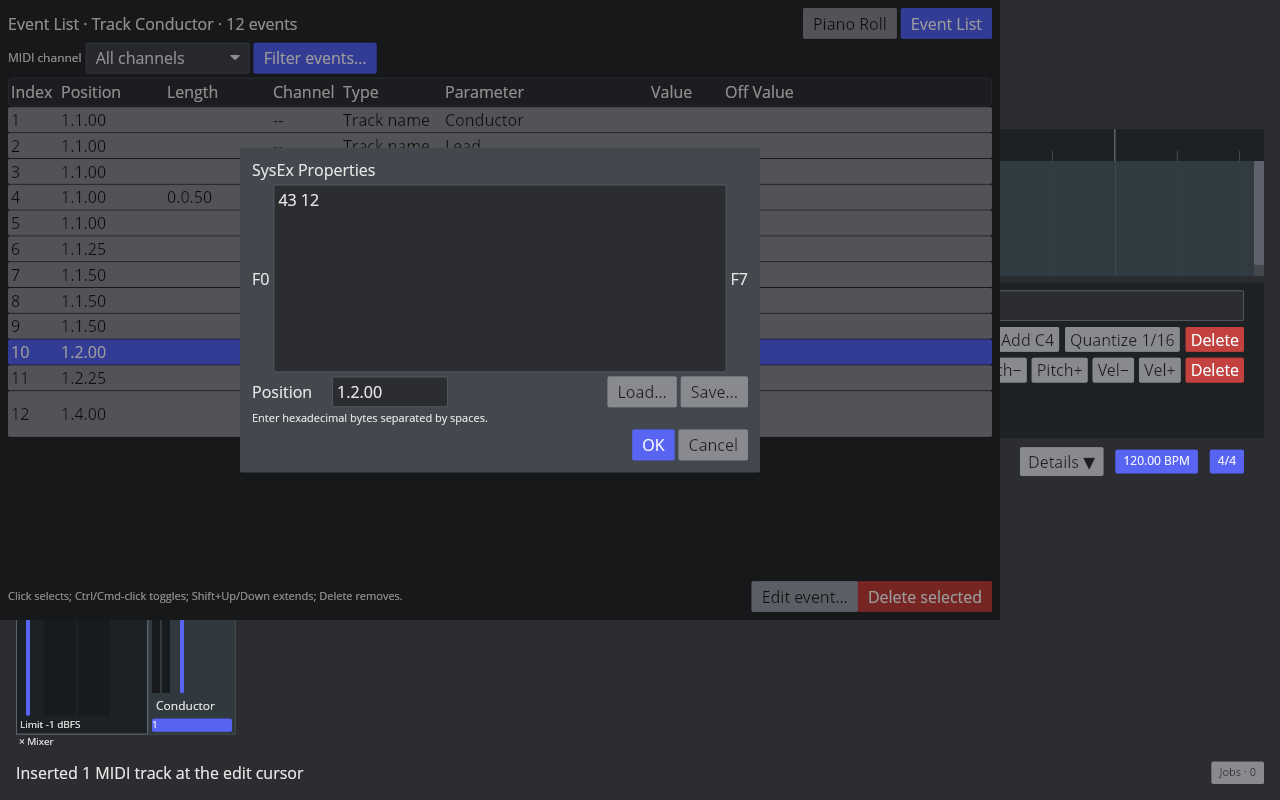
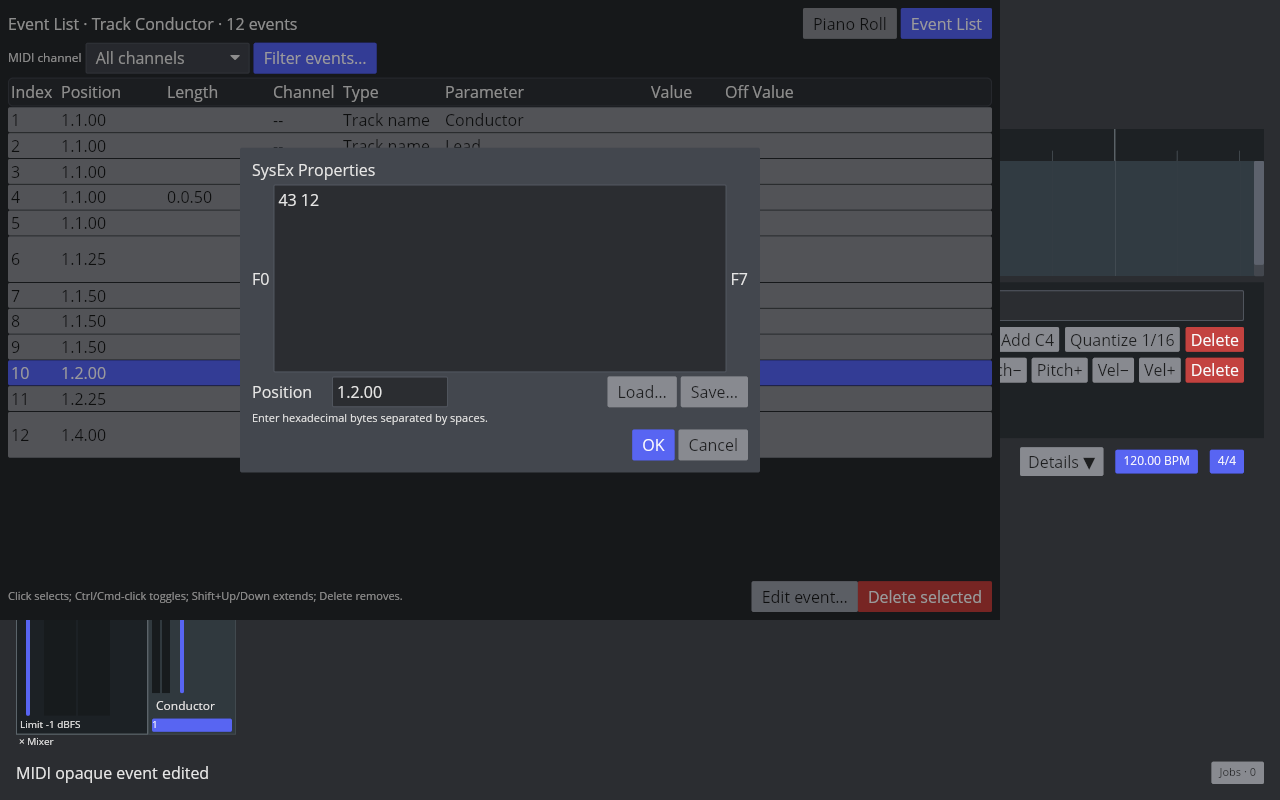
Fix MIDI opaque property dialog interactions

diff --git a/crates/aaadaw/src/app/mod.rs b/crates/aaadaw/src/app/mod.rs
@@ -4248,6 +4248,14 @@ impl App {
                     | Message::SetMidiEventPropertiesOffValue(_)
                     | Message::SetMidiEventPropertiesBankMsb(_)
                     | Message::SetMidiEventPropertiesBankLsb(_)
+                    | Message::SetMidiOpaqueEventPropertiesType(_)
+                    | Message::SetMidiOpaqueEventPropertiesPayload(_)
+                    | Message::SetMidiOpaqueEventPropertiesMultiline(_)
+                    | Message::EditMidiOpaqueEventPropertiesText(..)
+                    | Message::PickMidiOpaqueSysExFile(_)
+                    | Message::MidiOpaqueSysExFileFinished(..)
+                    | Message::PickMidiOpaqueMetaTextFile
+                    | Message::MidiOpaqueMetaTextFileFinished(..)
                     | Message::ApplyMidiEventProperties
                     | Message::AcceptMidiEventProperties
                     | Message::CancelMidiEventProperties
@@ -6189,6 +6197,7 @@ impl App {
                             event_type != MidiOpaqueEventPropertiesType::SysEx
                         })
                     {
+                        dialog.opaque_multiline = payload.contains('\n') || payload.contains('\r');
                         dialog.opaque_payload = payload;
                         dialog.opaque_editor =
                             iced::widget::text_editor::Content::with_text(&dialog.opaque_payload);

diff --git a/crates/aaadaw/src/app/view/midi_editor.rs b/crates/aaadaw/src/app/view/midi_editor.rs
@@ -1064,7 +1064,7 @@ fn midi_opaque_meta_text(data: &[u8]) -> String {
     let text = String::from_utf8_lossy(data).trim_matches('\0').to_owned();
     if text
         .chars()
-        .all(|character| !character.is_control() || character == '\t')
+        .all(|character| !character.is_control() || matches!(character, '\t' | '\n' | '\r'))
     {
         text
     } else {
@@ -5143,6 +5143,18 @@ fn piano_key_rect(pitch: u8, row_y: f32, row_height: f32) -> Rectangle {
 mod tests {
     use super::*;
     use crate::app::MidiTransposeScope;
+
+    #[test]
+    fn opaque_meta_text_keeps_readable_newlines() {
+        assert_eq!(
+            midi_opaque_meta_text(b"Imported line one\nImported line two"),
+            "Imported line one\nImported line two"
+        );
+        assert_eq!(
+            midi_opaque_meta_text(b"bad\x01text"),
+            "62 61 64 01 74 65 78 74"
+        );
+    }
 
     fn piano_roll_for_test<'a>(
         project: &'a Project,

diff --git a/crates/aaadaw/src/app/tests.rs b/crates/aaadaw/src/app/tests.rs
@@ -13038,6 +13038,18 @@ fn midi_opaque_meta_properties_edit_text_type_and_position_with_undo_redo() {
     assert!(commands::is_enabled(&app, CommandId::MidiEventProperties));
     let _ = commands::dispatch(&mut app, CommandId::MidiEventProperties);
     assert!(app.midi_event_properties_dialog.is_some());
+    let _ = app.update(Message::MidiOpaqueMetaTextFileFinished(Ok(Some(
+        "Loaded line one\nLoaded line two".into(),
+    ))));
+    let loaded_dialog = app
+        .midi_event_properties_dialog
+        .as_ref()
+        .expect("Meta properties dialog should remain open after text load");
+    assert!(loaded_dialog.opaque_multiline);
+    assert_eq!(
+        loaded_dialog.opaque_payload,
+        "Loaded line one\nLoaded line two"
+    );
     let _ = app.update(Message::SetMidiOpaqueEventPropertiesType(
         super::MidiOpaqueEventPropertiesType::Marker,
     ));

diff --git a/docs/verification/reaper-parity/midi-event-list.md b/docs/verification/reaper-parity/midi-event-list.md
@@ -6,7 +6,7 @@ AAADAW now exposes Piano Roll and Event List modes in the MIDI Editor and Action
 
 Event List appends `(end) All Notes Off` at the item length as a synthetic cursor row, not a stored or exported MIDI event. An empty item therefore shows one row at its end; the row can be selected and navigated to, and Delete/Backspace leaves the project unchanged. Delete on a modeled row removes that event. Real-window captures verify the empty row, the populated row, no-op deletion of the terminal row, and deletion of a real note. Note rows display persistent MIDI Note Off velocity in `Off Value`; the native and AAADAW fixture uses Note On 91 / Note Off 37 and verifies the displayed 37 in Event List and Event Properties. Apply changes it to 42, and Undo/Redo restore 37/42. See the [note-off velocity fixture manifest](fixtures/midi-note-off-velocity-ui.tsv). REAPER 7.82 displays a Program Change's raw zero-based program number in the Value column. Poly Aftertouch uses the native pitch name (for example `C4`) in Parameter; Channel Pressure has no parameter. Native REAPER and real-window AAADAW captures and readbacks for both pressure event types are in the [aftertouch fixture manifest](fixtures/midi-aftertouch-ui.tsv). The native type filter offers `<all events>`, Note, Poly Aftertouch, Control Change (CC), Program Change (PC), Channel Pressure, Pitch, and the combined `Sysex/Meta` category. Native and AAADAW screenshots confirm that Sysex/Meta includes track-name, text, marker, and SysEx rows; the inverse hides those opaque rows and shows channel events together with `(end) All Notes Off`, which is a non-Sysex/Meta event. Direct Sysex/Meta filtering hides the synthetic terminal row. AAADAW applies the same matching to visible rows and keyboard-navigation candidates. See the [type-filter fixture manifest](fixtures/midi-event-filter-ui.tsv). Ctrl/Cmd-click toggles a row, and deleting selected events creates one undoable transaction. The in-memory mode does not alter MIDI project data.
 
-For one or more selected rows of the same modeled type, `Edit event…` and action 40004 (`Ctrl+F2`) open Event Properties; a single selected editable text Meta or SysEx row uses the same entry point. Notes expose absolute Position, Length, Channel, Pitch, Note On Velocity, and Note Off velocity; CC events expose Position, Channel, Controller, and Value; Pitch Bend exposes Position, Channel, and raw 14-bit Value; Program Change exposes Position, MIDI channel, its zero-based Program number, and Bank MSB/LSB backed by CC0/CC32. REAPER opens a dedicated `Bank/Program Select` dialog for a Program Change. Text Meta exposes Text, Type, Multi-line text, and Position; SysEx exposes fixed F0/F7 framing, a hex payload editor, Position, and Load/Save. The implementation maps the nine editable REAPER Meta types and commits opaque edits as one undoable event update while preserving event order, but current live pointer probes did not visibly apply Meta Type/Multi-line/Load controls and the edit flow remains unverified. Apply leaves modeled-event dialogs open after one undoable update; OK commits and closes them; Cancel and Escape discard uncommitted fields. The separate [Event Properties verification](midi-event-properties.md) records the measured native dialogs and AAADAW windows.
+For one or more selected rows of the same modeled type, `Edit event…` and action 40004 (`Ctrl+F2`) open Event Properties; a single selected editable text Meta or SysEx row uses the same entry point. Notes expose absolute Position, Length, Channel, Pitch, Note On Velocity, and Note Off velocity; CC events expose Position, Channel, Controller, and Value; Pitch Bend exposes Position, Channel, and raw 14-bit Value; Program Change exposes Position, MIDI channel, its zero-based Program number, and Bank MSB/LSB backed by CC0/CC32. REAPER opens a dedicated `Bank/Program Select` dialog for a Program Change. Text Meta exposes Text, Type, Multi-line text, and Position; SysEx exposes fixed F0/F7 framing, a hex payload editor, Position, and Load/Save. The implementation maps the nine editable REAPER Meta types and commits opaque edits as one undoable event update while preserving event order. Current-build Linux Xvfb evidence verifies loading two-line UTF-8 Meta text, switching to Marker, committing it and displaying readable lines in Event List; it also verifies a SysEx payload edit and Undo. Apply leaves modeled-event dialogs open after one undoable update; OK commits and closes them; Cancel and Escape discard uncommitted fields. The separate [Event Properties verification](midi-event-properties.md) records the measured native dialogs and AAADAW windows.
 
 Arrow Up/Down now follows the measured row-selection behavior: the first unmodified arrow collapses a multi-selection at its active row, and the next arrow moves to the adjacent visible event. Ctrl+Arrow Up/Down moves the independent Event List cursor while retaining the selected rows. Shift+Arrow Up/Down extends or contracts the selection from its anchor across every visible event row, including mixed Note, CC, and Pitch Bend rows. Home selects the first visible event and moves the project edit cursor to that event's project position; End moves the project edit cursor to the MIDI item's end and leaves the selected event intact. The isolated Linux REAPER 7.82 probe uses an item from 4–8 seconds, a first note at 4.25 seconds, and another item ending at 12 seconds: Home selects that note and moves the cursor 6→4.25 seconds, then End moves it 4.25→8 seconds. The [native trace and screenshots](fixtures/midi-event-list-ui.tsv) record the event-selection bits and cursor readback. AAADAW's current desktop build selects the first visible row on Home and reaches the item end on End; its real-window screenshots show the selected Note and the arrangement cursor readouts at 0.25 and 2 seconds. The [native navigation trace](fixtures/midi-event-list-navigation-native.tsv) records Arrow-key selection bits after each step. In the native Event List, double-clicking a value opens the complete Event Properties dialog rather than editing that cell inline, so direct per-cell editing is not a parity gap.
 

diff --git a/docs/verification/reaper-parity/midi-event-properties.md b/docs/verification/reaper-parity/midi-event-properties.md
@@ -22,8 +22,8 @@ AAADAW accepts `+`, `-`, `*`, and `/` in numeric event fields, applying the oper
 
 The aftertouch probe adds both REAPER event types to the same dialog flow. Poly Aftertouch exposes Position, Channel, Note, and Value; Channel Pressure exposes Position, Channel, and Value. The native properties windows and Event List readback are compared with real AAADAW windows in the [aftertouch fixture manifest](fixtures/midi-aftertouch-ui.tsv). The AAADAW capture applies Poly Aftertouch value 37→42, closes the dialog, then verifies the Event List Undo/Redo values 37/42. The project model still does not store CC shape or Bezier tension, so both controls are clearly marked as not modeled.
 
-Opaque event properties are now available for one selected SysEx or editable text Meta row from `Edit event…` and action 40004 / Ctrl+F2. The native 7.82 SysEx window has fixed F0/F7 framing, a multiline hexadecimal payload area, Position, Save/Load, OK, and Cancel. AAADAW exposes the payload as a multiline hex editor, preserves framing when committing, and provides `.syx` / `.sysex` Load and Save actions. The native text Meta window has Text, Type, Multi-line text, Position, Load, OK, and Cancel; its Type list contains Text event, Copyright notice, Track name, Instrument name, Lyrics, Marker, Cue, Program name, and Device name. The implementation maps those nine Meta kinds and commits text, type, multiline content, and Position in one undoable `SetMidiOpaqueEvents` action while preserving event order; regression tests cover this path but remain unexecuted because the test binary could not be built after the workspace filesystem filled. The current AAADAW screenshots confirm the dialog layouts. In a live Xvfb probe, clicking Type, Multi-line, and Load did not visibly change the dialog, so direct UI editing and Meta file loading remain unverified. Invalid hex and out-of-range BBT values are covered in the test code. The paired native and AAADAW captures, probe MIDI file, binary identity, and regression-test names are in the [Event Properties fixture manifest](fixtures/midi-event-properties-ui.tsv).
+Opaque event properties are available for one selected SysEx or editable text Meta row from `Edit event…` and action 40004 / Ctrl+F2. The native 7.82 SysEx window has fixed F0/F7 framing, a multiline hexadecimal payload area, Position, Save/Load, OK, and Cancel. AAADAW exposes the payload as a multiline hex editor, preserves framing when committing, and provides `.syx` / `.sysex` Load and Save actions. The native text Meta window has Text, Type, Multi-line text, Position, Load, OK, and Cancel; its Type list contains Text event, Copyright notice, Track name, Instrument name, Lyrics, Marker, Cue, Program name, and Device name. AAADAW maps those nine Meta kinds and commits text, type, multiline content, and Position in one undoable `SetMidiOpaqueEvents` action while preserving event order. A Linux Xvfb run with the current build loaded a two-line UTF-8 file through the desktop portal, automatically enabled Multi-line, changed Type to Marker, and committed both lines to Event List. A separate SysEx edit changed payload `43 12` to `43 12 34`, committed `F0 43 12 34 F7`, and Undo restored `F0 43 12 F7`. Focused App regression tests pass 6/6 across Meta editing/load state, SysEx validation/Undo, F0/F7 framing, and multiline display; strict all-target Clippy passes. The paired native and current-build AAADAW captures, probe MIDI file, binary identity, and regression-test names are in the [Event Properties fixture manifest](fixtures/midi-event-properties-ui.tsv).
 
[1 lines of base64/hex data omitted]
 
-This does not complete native Event Properties parity. Meta type/text/multiline/load interactions need repair and live verification; mixed-type selections, patch-file selection, SysEx file-dialog read/write behavior, invalid UTF-8 Meta editing, F7 continuation packets, and exact type/text control focus remain open. CC shape and Bezier tension remain absent from the project model. Event Properties BBT editing uses the project PPQ and meter at tick zero; meter-map changes, source offsets, and loop-source occurrences still need native probes. CC named values are available through the editable combo, though its search/focus details still need a closer native comparison. `MIDI-EVENT-PROPERTIES-001`, `MIDI-EVENT-LIST-001`, UI-019, and P7 remain `in_progress`.
+This does not complete native Event Properties parity. SysEx `.syx/.sysex` file-dialog read/write, F7 continuation property editing, invalid UTF-8 Meta, structural Meta properties, mixed-type selections, and patch-file selection remain open. CC shape and Bezier tension remain absent from the project model. Event Properties BBT editing uses the project PPQ and meter at tick zero; meter-map changes, source offsets, and loop-source occurrences still need native probes. CC named values are available through the editable combo, though its search/focus details still need a closer native comparison. `MIDI-EVENT-PROPERTIES-001`, `MIDI-EVENT-LIST-001`, UI-019, and P7 remain `in_progress`.

diff --git a/docs/reaper-parity/progress.md b/docs/reaper-parity/progress.md
@@ -2387,8 +2387,8 @@ AAADAW 全量 App 测试 **771/771**、workspace strict all-target Clippy (`-D w
 
 ### 2026-10-18 Event Properties 的 Meta/SysEx 编辑入口与文件动作
 
-Event List 的 `Edit event…` 和原厂 `Ctrl+F2` action 40004 现在可打开一个 text Meta 或 SysEx 行的属性窗。实现覆盖 REAPER 的 Text event、Copyright notice、Track name、Instrument name、Lyrics、Marker、Cue、Program name、Device name 类型，以及文本、类型、BBT Position、多行编辑和 SysEx 文件包络逻辑；两种事件都设计为由一个 `SetMidiOpaqueEvents` 历史动作提交，非法十六进制和非法 BBT 保持属性窗打开。新增 App 测试定义了 Meta 编辑/Undo/Redo、SysEx 非法十六进制及 Undo/Redo 和 F0/F7 文件包络验证。
+Event List 的 `Edit event…` 和原厂 `Ctrl+F2` action 40004 现在可打开一个 text Meta 或 SysEx 行的属性窗。实现覆盖 REAPER 的 Text event、Copyright notice、Track name、Instrument name、Lyrics、Marker、Cue、Program name、Device name 类型，以及文本、类型、BBT Position、多行编辑和 SysEx 文件包络逻辑；两种事件都由一个 `SetMidiOpaqueEvents` 历史动作提交，非法十六进制和非法 BBT 保持属性窗打开。新增 App 测试覆盖 Meta 编辑/Undo/Redo、文件载入后的多行状态、SysEx 非法十六进制及 Undo/Redo、F0/F7 文件包络与带换行 Meta 的 Event List 显示。
 
[2 lines of base64/hex data omitted]
 
-新增 App 回归覆盖 opaque Meta 类型/文本/位置修改及 Undo/Redo、SysEx 非法十六进制拒绝/合法修改及 Undo/Redo、F0/F7 文件包络解析；strict all-target Clippy 和此前 all-target `cargo check` 通过，stable fmt 通过。随后尝试执行 Meta 测试时，工作区达到 100% 使用率，rustc 无法创建临时目录，测试二进制未生成，故这三个新增测试没有执行。`MIDI-EVENT-PROPERTIES-001`、`MIDI-EVENT-LIST-001`、`MIDI-FILE-IMPORT-001`、UI-019 与 P7 仍是 `in_progress`。剩余边界包括 Meta Type/Multi-line/Load 控件交互、原厂文件对话框字节读回、无效 UTF-8 Meta、F7 continuation、结构性 Meta 属性、mixed-type 选择、REAPER Data 与多行控件的精确鼠标/键盘焦点行为。
+六项聚焦 App 测试通过：五项匹配 `opaque_` 的属性/列表测试与一项 F0/F7 文件包络测试；strict all-target Clippy (`-D warnings`)、stable fmt、diff 检查和稳定桌面构建均通过。首次测试链接曾因本地 GLib 搜索路径配置不足失败；补充本地 `LIBRARY_PATH` 后测试二进制成功链接并通过。`MIDI-EVENT-PROPERTIES-001`、`MIDI-EVENT-LIST-001`、`MIDI-FILE-IMPORT-001`、UI-019 与 P7 仍是 `in_progress`。剩余边界包括 SysEx `.syx/.sysex` 文件读写、invalid UTF-8 Meta、F7 continuation 属性编辑、结构性 Meta 属性、mixed-type 选择、REAPER Data、patch-file selection 与 BBT meter/source-offset/loop 语义。

diff --git a/docs/reaper-parity/midi-file-import.md b/docs/reaper-parity/midi-file-import.md
@@ -18,4 +18,4 @@ Off-bar time-signature points are snapped forward to the next valid project bar 
 
 Parity remains incomplete. AAADAW preserves channel events when the first Type 1 source track is expanded; REAPER's exact behavior for this uncommon channel-bearing conductor-track case is not yet probed. The native default-import readback shows that with Tempo Map disabled, tempo/meter Meta neither changes the project map nor appears in the merged item's Event List; AAADAW follows that behavior. The expanded-track/Tempo-Map-disabled combination still needs a native probe. Opaque event rows can be selected, navigated, filtered under the native combined `Sysex/Meta` Event List type, and deleted with Undo/Redo, but cannot yet be edited. The project audio playback path does not yet schedule imported SysEx or raw Meta events, and imported cross-class same-tick event ordering is not preserved. Format 2 and SMPTE divisions remain unsupported.
 
-Automated coverage includes format 0/1 parsing, running status, track separation/merging, PPQ scaling, supported event conversion, opaque Meta/SysEx round-trip, malformed input rejection, note pairing, transaction rollback, Undo/Redo, project snapshot restoration, SQLite save/reopen and schema 62→63 migration. Linux REAPER 7.82 behavior is verified with native readback and screenshots. AAADAW's current-build dialog, imported Arrangement and Tempo/Meter result were exercised in a live Xvfb desktop run; screenshot hashes and the exact build are recorded in [`midi-file-import-aaadaw.tsv`](../verification/reaper-parity/fixtures/midi-file-import-aaadaw.tsv). Opaque Meta deletion and Ctrl+Z restoration were exercised in a second live run; the [Event List screenshots](../verification/reaper-parity/fixtures/midi-opaque-event-delete-aaadaw.tsv) record selected, deleted, and restored states. Keep `MIDI-FILE-IMPORT-001`, UI-019 and P7 `in_progress` until the remaining event editing, playback, and visual differences are resolved.
+Automated coverage includes format 0/1 parsing, running status, track separation/merging, PPQ scaling, supported event conversion, opaque Meta/SysEx round-trip, malformed input rejection, note pairing, transaction rollback, Undo/Redo, project snapshot restoration, SQLite save/reopen and schema 62→63 migration. Linux REAPER 7.82 behavior is verified with native readback and screenshots. AAADAW's current-build dialog, imported Arrangement and Tempo/Meter result were exercised in a live Xvfb desktop run; screenshot hashes and the exact build are recorded in [`midi-file-import-aaadaw.tsv`](../verification/reaper-parity/fixtures/midi-file-import-aaadaw.tsv). Opaque Meta deletion and Ctrl+Z restoration were exercised in a second live run; the [Event List screenshots](../verification/reaper-parity/fixtures/midi-opaque-event-delete-aaadaw.tsv) record selected, deleted, and restored states. The current Event Properties probe also loads and edits text Meta and SysEx rows after import, including Meta type/multiline and SysEx payload Undo; the paired screenshots and binary identity are in the [Event Properties fixture manifest](../verification/reaper-parity/fixtures/midi-event-properties-ui.tsv). Keep `MIDI-FILE-IMPORT-001`, UI-019 and P7 `in_progress` until SysEx `.syx/.sysex` file workflows, SysEx/Meta playback, imported cross-class same-tick ordering, and remaining format/UI differences are resolved.
